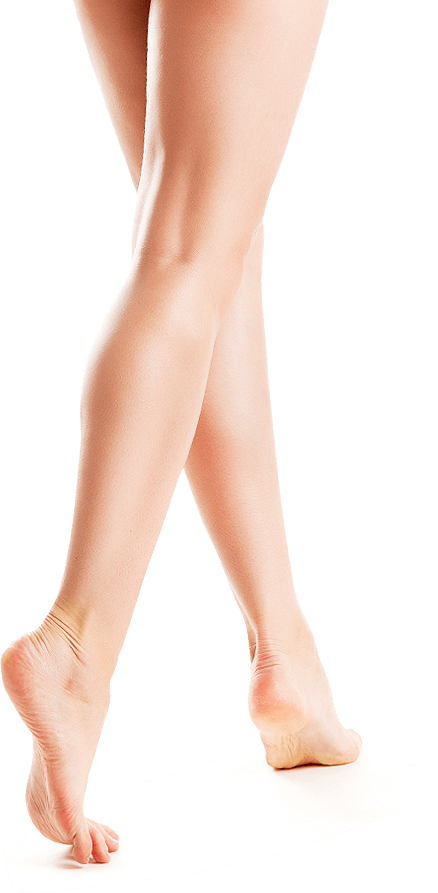
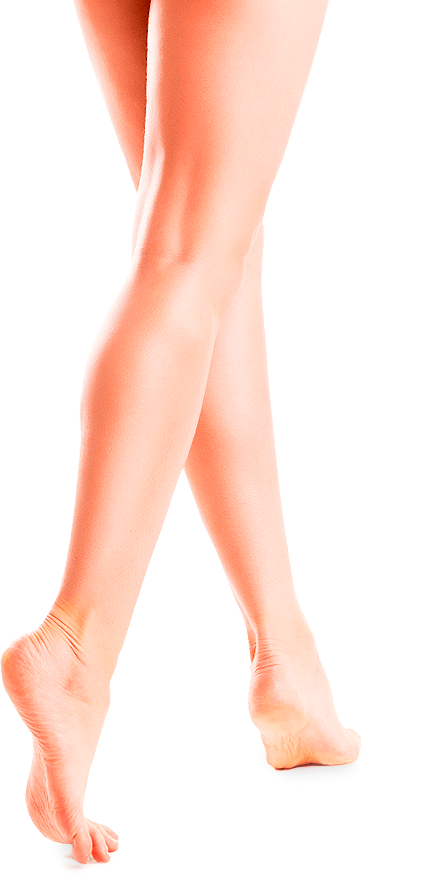
vlad

diff --git a/source/style/common/i_bheader.scss b/source/style/common/i_bheader.scss
@@ -84,10 +84,10 @@ height: 890px;
 }
 .bheader-legs img{
 	position: absolute;
-	top: 0;
-	left: 32px;
-	width: 398px;
-	height: auto;
+    top: 0;
+    left: 57px;
+    width: 375px;
+    height: auto;
 }
 }
 

diff --git a/source/style/common/j_footer.scss b/source/style/common/j_footer.scss
@@ -82,7 +82,7 @@ line-height: 24px;
 // media
 @media screen and (max-width: 1190px) {
   .footer {
-    padding-top: 90px;
+    padding-top: 65px;
   }
 
 }

diff --git a/source/style/common/b_fact.scss b/source/style/common/b_fact.scss
@@ -162,7 +162,7 @@
 }
 @media screen and (max-width: 479px) {
 	.fact-content-box:not(:last-child){
-		margin-bottom: 13px;
+		margin-bottom: 16px;
 	}
 }
 
